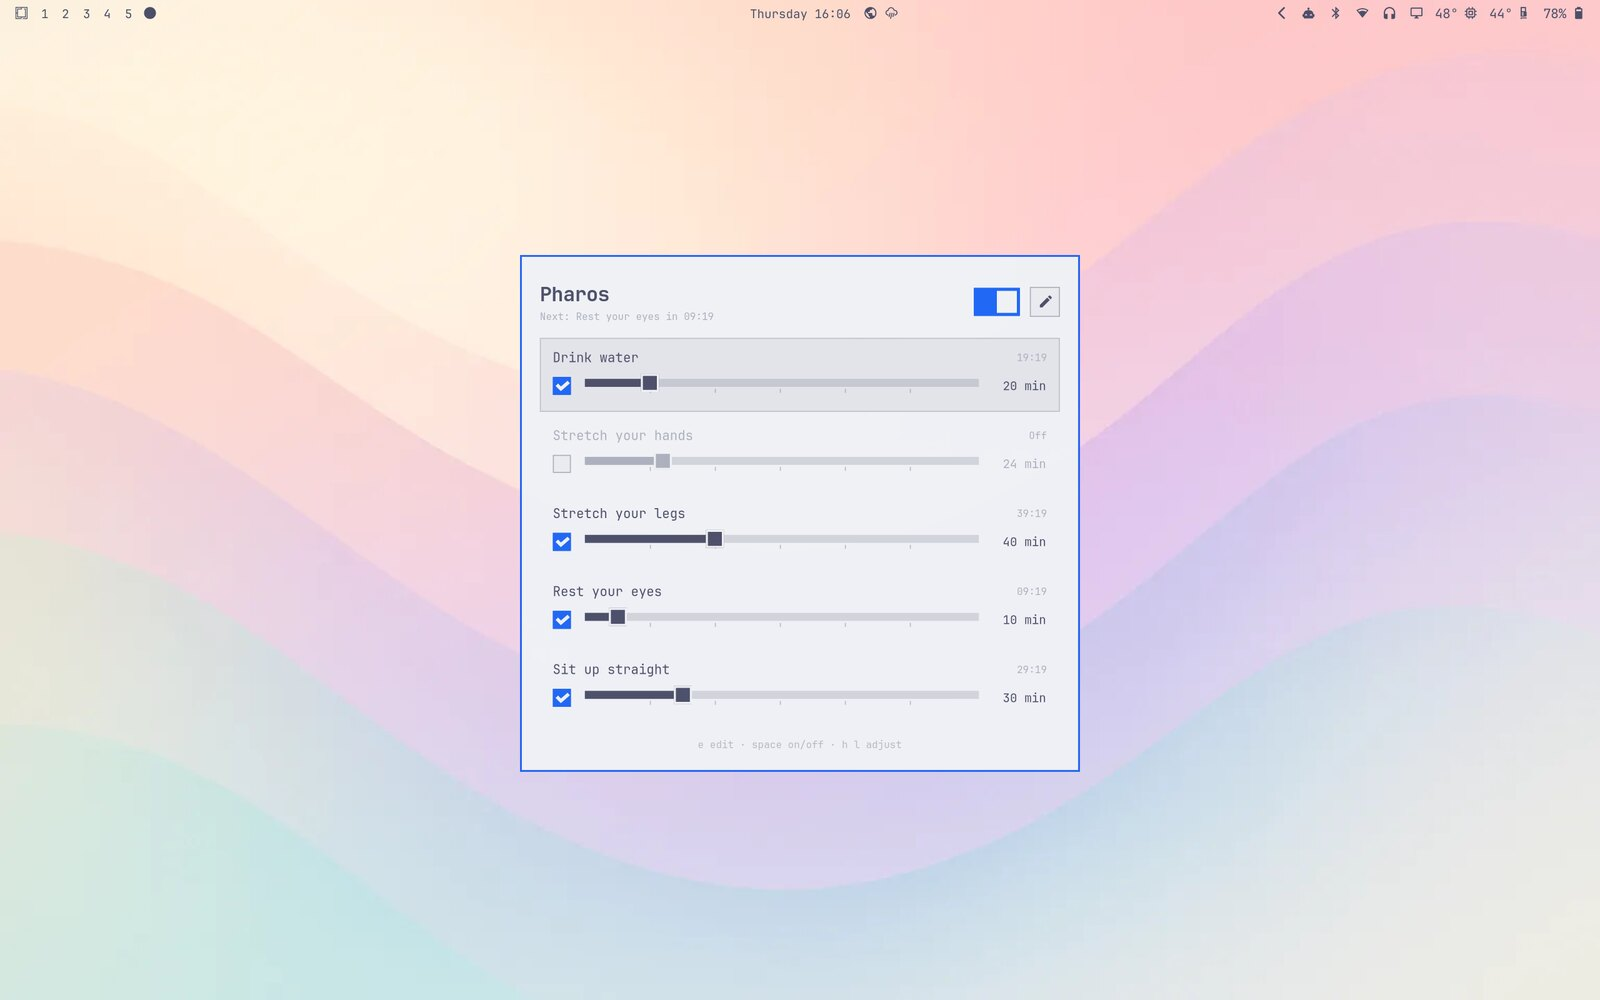
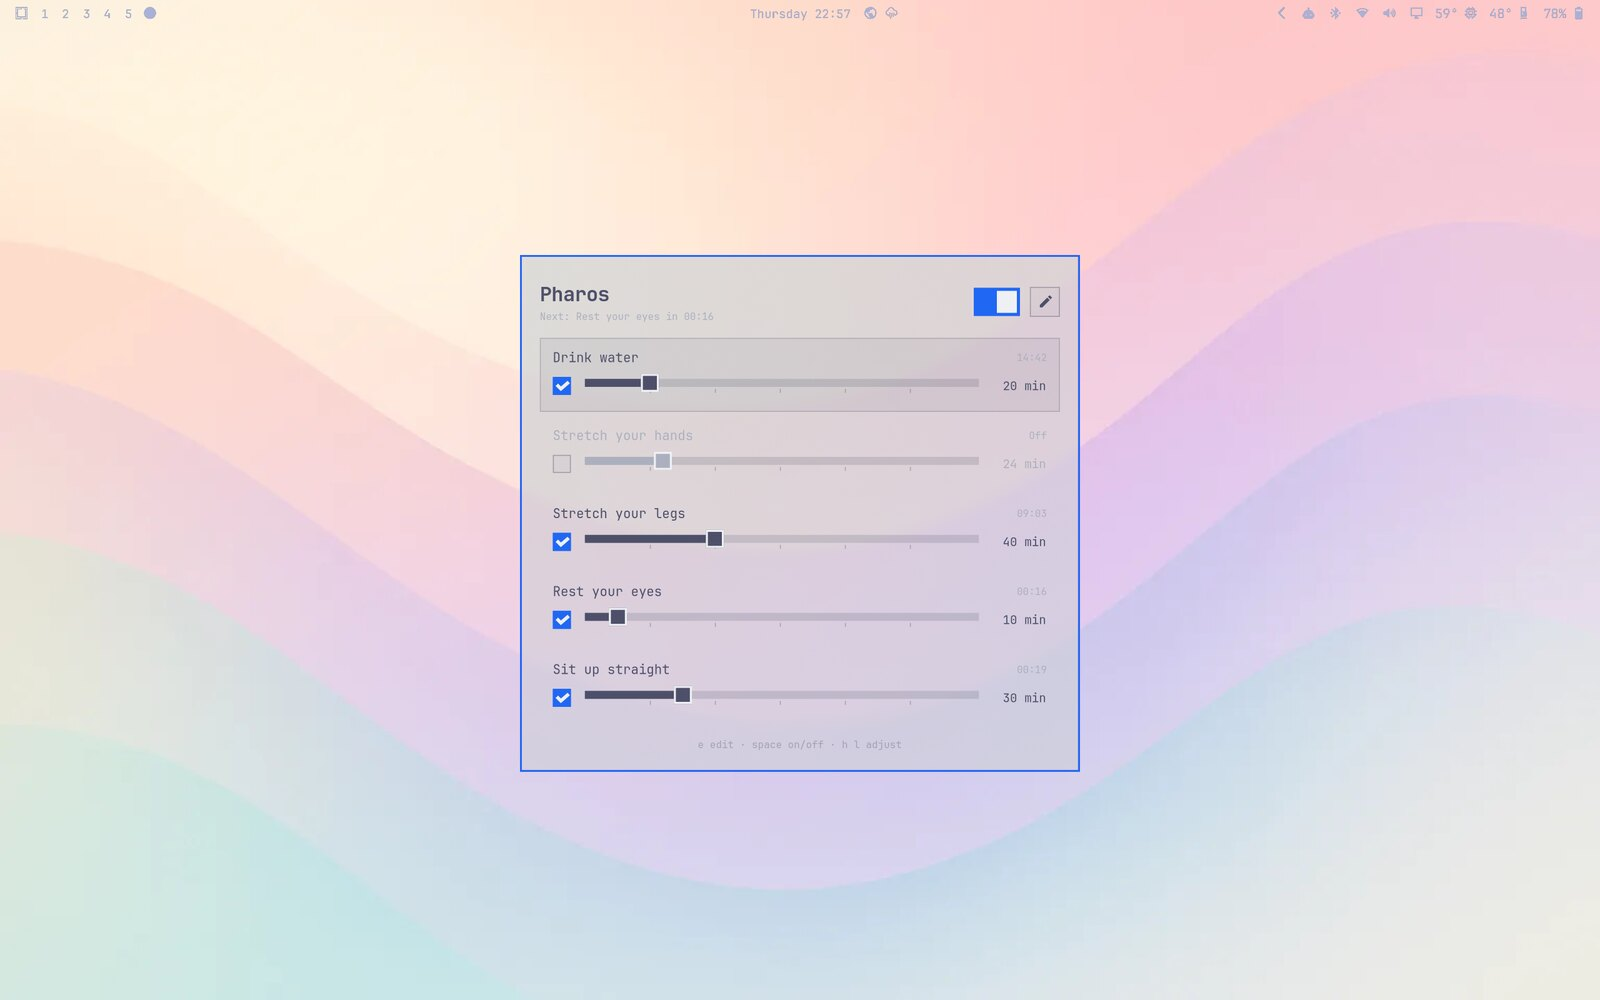
Glassy windows: see-through, blurred background like the terminals
- With Omarchy's Glassy windows on, the window takes the terminals' alpha
  (from the theme's foot.ini) and asks Hyprland to blur behind it
- Follows the Glassy toggle live; [pharos] background-alpha still wins
- Quit closes only the window this process opened, and never restarts
  anything (it could start a second background process)
- README screenshots retaken with the glass look

diff --git a/src/window/theme.rs b/src/window/theme.rs
@@ -154,6 +154,32 @@ fn width(v: Option<&Value>) -> Option<f64> {
     }
 }
 
+/// While Omarchy's windows are Glassy, terminals get a see-through
+/// background (`omarchy-theme-set-glass` writes it into their theme files)
+/// and Hyprland blurs what's behind it. Pharos takes the same alpha, read
+/// from foot's file, so it looks like the terminal next to it. None when
+/// windows aren't Glassy.
+fn glass_alpha(theme_dir: &std::path::Path) -> Option<f64> {
+    let toggle = paths::state_home().join("omarchy/toggles/hypr/window-glassy.lua");
+    if !toggle.is_file() {
+        return None;
+    }
+    let foot = std::fs::read_to_string(theme_dir.join("foot.ini")).unwrap_or_default();
+    Some(foot_alpha(&foot).unwrap_or(GLASS_ALPHA))
+}
+
+/// Omarchy's glass alpha for terminals.
+const GLASS_ALPHA: f64 = 0.65;
+
+/// The `alpha=` line of foot.ini, if any.
+fn foot_alpha(ini: &str) -> Option<f64> {
+    ini.lines()
+        .filter_map(|l| l.trim().strip_prefix("alpha"))
+        .filter_map(|rest| rest.trim_start().strip_prefix('='))
+        .find_map(|v| v.trim().parse::<f64>().ok())
+        .filter(|a| (0.0..=1.0).contains(a))
+}
+
 impl Theme {
     /// The live Omarchy theme.
     pub fn load() -> Theme {
@@ -164,17 +190,20 @@ impl Theme {
             &read_table(&paths::omarchy_user_shell_toml()),
             font_family(),
             hyprland_rounding(),
+            glass_alpha(&theme_dir),
         )
     }
 
     /// A theme from already-read sources: the theme's colors.toml and
-    /// shell.toml, the user's shell.toml, the font and Hyprland's rounding.
+    /// shell.toml, the user's shell.toml, the font, Hyprland's rounding,
+    /// and the terminals' background alpha while windows are Glassy.
     pub fn from_parts(
         colors: &Table,
         shell: &Table,
         user_shell: &Table,
         font_family: String,
         radius: f64,
+        glass: Option<f64>,
     ) -> Theme {
         let color = |key: &str| {
             colors
@@ -247,9 +276,11 @@ impl Theme {
             .map(|s| resolve(s, foreground))
             .unwrap_or(foreground);
 
-        // [pharos] background-alpha: the user-wide file wins over the theme.
+        // [pharos] background-alpha: the user-wide file wins over the theme,
+        // and either wins over Glassy windows.
         let window_alpha = num(get(user_shell, "pharos", "background-alpha"))
             .or_else(|| num(get(shell, "pharos", "background-alpha")))
+            .or(glass)
             .unwrap_or(1.0)
             .clamp(0.0, 1.0);
 
@@ -300,6 +331,9 @@ impl Theme {
 
     pub fn css(&self) -> String {
         let bg = self.background.alpha(self.window_alpha).css();
+        // A see-through window asks Hyprland to blur what's behind it, like
+        // the terminals do in Glassy mode; its blur settings decide the look.
+        let backdrop = if self.window_alpha < 1.0 { "blur(20px)" } else { "none" };
         let fg = self.foreground.css();
         let muted = self.muted.css();
         let faint = self.foreground.alpha(0.35).css();
@@ -338,6 +372,7 @@ impl Theme {
 window.pharos,
 window.pharos.background {{
   background-color: {bg};
+  backdrop-filter: {backdrop};
   color: {fg};
   font-family: "{family}", monospace;
   font-size: {body};
@@ -658,6 +693,7 @@ mod tests {
             &table(user),
             "JetBrainsMono Nerd Font".into(),
             radius,
+            None,
         )
     }
 
@@ -739,6 +775,34 @@ mod tests {
     }
 
     #[test]
+    fn glassy_windows_match_the_terminal() {
+        let glassy = |user: &str| {
+            Theme::from_parts(
+                &table(TOKYO_COLORS),
+                &Table::new(),
+                &table(user),
+                "monospace".into(),
+                0.0,
+                Some(0.65),
+            )
+            .css()
+        };
+        assert!(glassy("").contains("background-color: rgba(26, 27, 38, 0.650)"));
+        // A background-alpha the user set still wins.
+        assert!(
+            glassy("[pharos]\nbackground-alpha = 0.9\n")
+                .contains("background-color: rgba(26, 27, 38, 0.900)")
+        );
+        assert_eq!(
+            foot_alpha("[colors-dark]\n# omarchy-glass begin\nalpha=0.65\nblur=yes\n"),
+            Some(0.65)
+        );
+        assert_eq!(foot_alpha("alpha = 0.8"), Some(0.8));
+        assert_eq!(foot_alpha("alpha-mode=default\nforeground=fff"), None);
+        assert_eq!(foot_alpha("alpha=7"), None);
+    }
+
+    #[test]
     fn survives_an_empty_theme() {
         let t = Theme::from_parts(
             &Table::new(),
@@ -746,6 +810,7 @@ mod tests {
             &Table::new(),
             "monospace".into(),
             0.0,
+            None,
         );
         let css = t.css();
         assert_eq!(

diff --git a/src/daemon.rs b/src/daemon.rs
@@ -9,6 +9,7 @@
 use std::collections::HashMap;
 use std::path::{Path, PathBuf};
 use std::process::{Command, ExitCode, Stdio};
+use std::sync::atomic::{AtomicUsize, Ordering};
 use std::sync::mpsc::{self, RecvTimeoutError};
 use std::time::{Duration, Instant, SystemTime};
 
@@ -136,7 +137,8 @@ pub fn run(open: bool) -> ExitCode {
         d.publish();
     }
 
-    if window_running() {
+    // Close the window this process opened, and nobody else's.
+    if OPEN_WINDOWS.load(Ordering::SeqCst) > 0 {
         window(&["--quit"]);
     }
     let _ = std::fs::remove_file(ipc::socket_path());
@@ -231,6 +233,9 @@ fn window_exe() -> PathBuf {
         .unwrap_or_else(|| PathBuf::from("pharos-window"))
 }
 
+/// `pharos-window` processes this process started that are still running.
+static OPEN_WINDOWS: AtomicUsize = AtomicUsize::new(0);
+
 /// Starts `pharos-window` with `args`. GTK hands them to the window that's
 /// already open, if there is one.
 fn window(args: &[&str]) {
@@ -238,20 +243,14 @@ fn window(args: &[&str]) {
     cmd.args(args).stdin(Stdio::null());
     match cmd.spawn() {
         Ok(mut child) => {
-            std::thread::spawn(move || child.wait());
+            OPEN_WINDOWS.fetch_add(1, Ordering::SeqCst);
+            std::thread::spawn(move || {
+                let _ = child.wait();
+                OPEN_WINDOWS.fetch_sub(1, Ordering::SeqCst);
+            });
         }
         Err(err) => eprintln!("pharos: could not open the window: {err}"),
     }
-}
-
-/// Whether a `pharos-window` is open, so Quit can close it.
-fn window_running() -> bool {
-    let Ok(dir) = std::fs::read_dir("/proc") else {
-        return false;
-    };
-    dir.flatten().any(|e| {
-        std::fs::read_to_string(e.path().join("comm")).is_ok_and(|c| c.trim() == "pharos-window")
-    })
 }
 
 /// glibc gives each thread its own malloc arena; this process allocates

diff --git a/src/window/main.rs b/src/window/main.rs
@@ -34,31 +34,34 @@ fn main() -> glib::ExitCode {
     let pharos: Rc<RefCell<Option<Rc<app::Pharos>>>> = Rc::default();
 
     let slot = pharos.clone();
-    app.connect_startup(move |app| {
-        let cfg = match config::Config::load() {
-            config::Loaded::FirstRun(cfg) | config::Loaded::Existing(cfg) => cfg,
-        };
-        *slot.borrow_mut() = Some(app::Pharos::new(app, cfg));
-    });
-
-    let slot = pharos.clone();
     app.connect_command_line(move |app, cmd| {
-        let Some(p) = slot.borrow().clone() else {
-            return glib::ExitCode::FAILURE;
-        };
         let args: Vec<String> = cmd
             .arguments()
             .into_iter()
             .skip(1)
             .map(|a| a.to_string_lossy().into_owned())
             .collect();
+        // Quit only closes a window that's open: it never builds one, and
+        // never starts the background process.
+        if args.first().map(String::as_str) == Some("--quit") {
+            if let Some(p) = slot.borrow().as_ref() {
+                p.flush();
+            }
+            app.quit();
+            return glib::ExitCode::SUCCESS;
+        }
+        let p = slot
+            .borrow_mut()
+            .get_or_insert_with(|| {
+                let cfg = match config::Config::load() {
+                    config::Loaded::FirstRun(cfg) | config::Loaded::Existing(cfg) => cfg,
+                };
+                app::Pharos::new(app, cfg)
+            })
+            .clone();
         match args.first().map(String::as_str) {
             None => p.present(),
             Some("--toggle") => p.toggle_window(),
-            Some("--quit") => {
-                p.flush();
-                app.quit();
-            }
             Some(other) => {
                 eprintln!("pharos-window: unknown option {other}");
                 return glib::ExitCode::FAILURE;

diff --git a/tests/cli.rs b/tests/cli.rs
@@ -174,6 +174,10 @@ fn background_process_keeps_the_clocks() {
         daemon.try_wait().unwrap().is_some()
     });
     assert!(!dir.0.join("pharos.sock").exists());
+    // Quitting must not bring anything back (it once restarted itself
+    // through the window when another Pharos window was open).
+    std::thread::sleep(Duration::from_millis(1500));
+    assert!(!dir.0.join("pharos.sock").exists(), "something restarted");
 
     // With nothing running, a snooze says so.
     let out = cmd(&["--snooze", "3"]).stderr(std::process::Stdio::piped()).output().unwrap();

diff --git a/src/window/app.rs b/src/window/app.rs
@@ -226,6 +226,8 @@ impl Pharos {
         let dirs = [
             paths::omarchy_current(),
             paths::omarchy_current().join("theme"),
+            // Omarchy's toggles, Glassy windows among them.
+            paths::state_home().join("omarchy/toggles/hypr"),
         ];
         let files = [
             paths::omarchy_user_shell_toml(),

diff --git a/README.md b/README.md
@@ -76,10 +76,11 @@ while it's open.
 | State                        | RAM (PSS) |
 | ---------------------------- | --------- |
 | In the background            | ~3 MB     |
-| Window open                  | ~18 MB    |
+| Window open                  | ~18–25 MB |
 
-Measured on Omarchy with `/proc/<pid>/smaps_rollup`. A few seconds after you
-stop using the window, it lets go of the GTK code it only needed to start up.
+Measured on Omarchy with `/proc/<pid>/smaps_rollup`. A bigger window, or the
+Glassy look, takes a few MB more. A few seconds after you stop using the
+window, it lets go of the GTK code it only needed to start up.
 Closing the window gives all of its memory back right away.
 
 ## Fits in Omarchy
@@ -89,7 +90,8 @@ Closing the window gives all of its memory back right away.
 - **Language.** All 50 Omarchy languages, following Omarchy's language setting.
   Built-in reminders switch language with it until you rename them.
 - **Window.** Tiles into the free space like a terminal. Follows Omarchy's
-  window transparency (opaque, see-through or glassy).
+  window transparency: with Glassy windows it gets the same see-through,
+  blurred background as the terminals.
 - **Notifications.** Sent with `omarchy notification send`, so they look like
   every other Omarchy notification.
 - **Sleep.** After the laptop sleeps, the clocks start over quietly instead of
